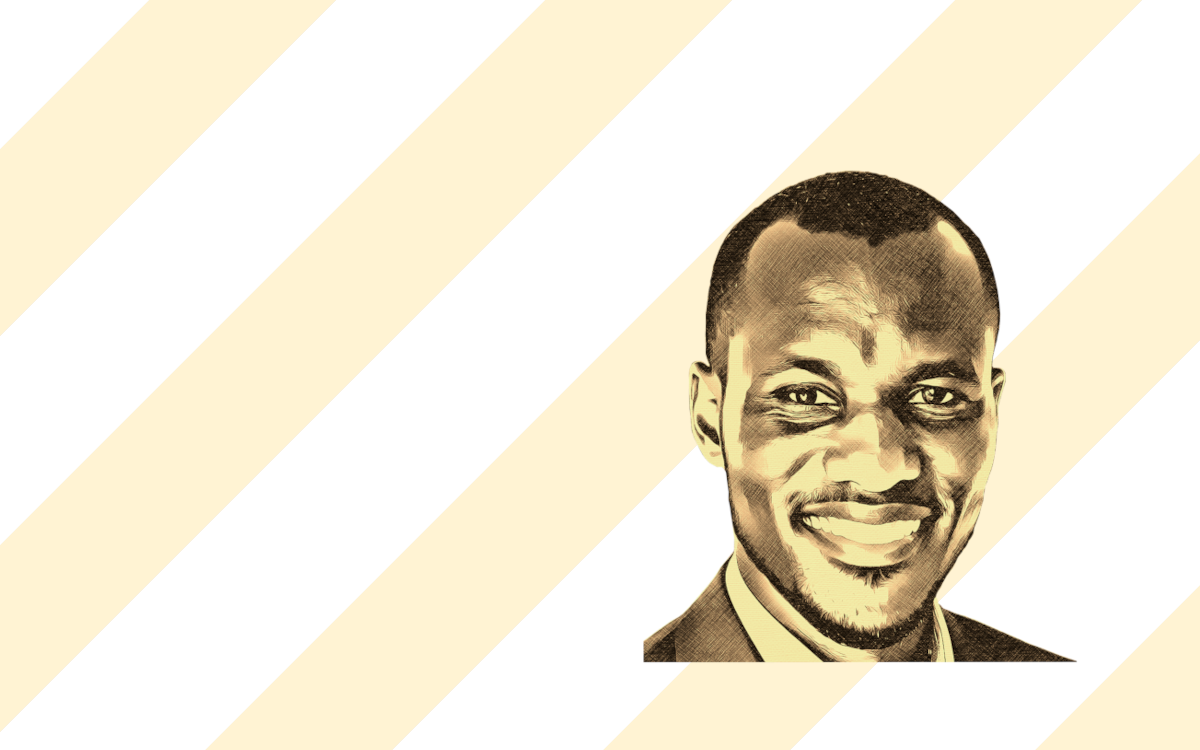
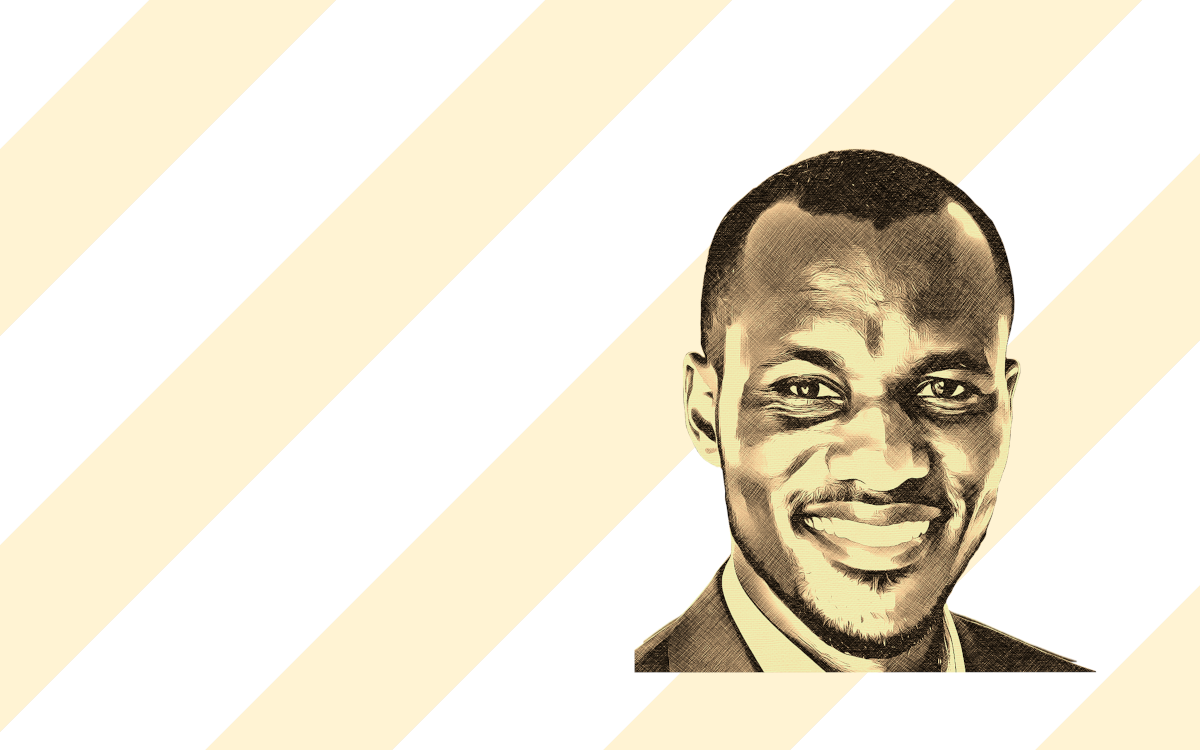
background

Changed region(s): [[0.5242, 0.184, 0.925, 0.92]]

diff --git a/dist/output.css b/dist/output.css
@@ -550,32 +550,12 @@ video {
   position: relative;
 }
 
-.top-0 {
-  top: 0px;
-}
-
-.left-\[50\%\] {
-  left: 50%;
-}
-
-.left-\[-50\%\] {
-  left: -50%;
-}
-
-.left-\[-20\%\] {
-  left: -20%;
-}
-
-.top-\[-20\%\] {
-  top: -20%;
-}
-
-.top-\[-200px\] {
-  top: -200px;
-}
-
 .z-10 {
   z-index: 10;
+}
+
+.z-30 {
+  z-index: 30;
 }
 
 .z-\[100\] {
@@ -584,14 +564,6 @@ video {
 
 .z-\[999\] {
   z-index: 999;
-}
-
-.z-0 {
-  z-index: 0;
-}
-
-.z-30 {
-  z-index: 30;
 }
 
 .m-auto {
@@ -689,6 +661,10 @@ video {
   height: 50px;
 }
 
+.h-\[60\%\] {
+  height: 60%;
+}
+
 .h-fit {
   height: -moz-fit-content;
   height: fit-content;
@@ -702,52 +678,16 @@ video {
   height: 100vh;
 }
 
-.h-60 {
-  height: 15rem;
-}
-
-.h-auto {
-  height: auto;
-}
-
-.h-\[300rem\] {
-  height: 300rem;
-}
-
-.h-\[100rem\] {
-  height: 100rem;
-}
-
-.h-\[50rem\] {
-  height: 50rem;
-}
-
-.h-\[80rem\] {
-  height: 80rem;
-}
-
-.h-\[500px\] {
-  height: 500px;
-}
-
-.h-\[800px\] {
-  height: 800px;
-}
-
-.h-\[50\%\] {
-  height: 50%;
-}
-
-.h-\[60\%\] {
-  height: 60%;
-}
-
 .min-h-\[80\%\] {
   min-height: 80%;
 }
 
 .w-1\/2 {
   width: 50%;
+}
+
+.w-1\/4 {
+  width: 25%;
 }
 
 .w-1\/6 {
@@ -792,42 +732,6 @@ video {
 
 .w-full {
   width: 100%;
-}
-
-.w-1\/4 {
-  width: 25%;
-}
-
-.w-\[300rem\] {
-  width: 300rem;
-}
-
-.w-\[100rem\] {
-  width: 100rem;
-}
-
-.w-\[500rem\] {
-  width: 500rem;
-}
-
-.w-\[50rem\] {
-  width: 50rem;
-}
-
-.w-\[80rem\] {
-  width: 80rem;
-}
-
-.w-\[300px\] {
-  width: 300px;
-}
-
-.w-\[500px\] {
-  width: 500px;
-}
-
-.w-\[800px\] {
-  width: 800px;
 }
 
 .max-w-\[80\%\] {
@@ -895,12 +799,12 @@ video {
   gap: 0.25rem;
 }
 
-.gap-8 {
-  gap: 2rem;
-}
-
 .gap-2 {
   gap: 0.5rem;
+}
+
+.gap-8 {
+  gap: 2rem;
 }
 
 .scroll-smooth {
@@ -909,10 +813,6 @@ video {
 
 .rounded-full {
   border-radius: 9999px;
-}
-
-.rounded-lg {
-  border-radius: 0.5rem;
 }
 
 .border {
@@ -928,32 +828,17 @@ video {
   border-color: rgb(48 40 17 / var(--tw-border-opacity));
 }
 
-.border-red-500 {
-  --tw-border-opacity: 1;
-  border-color: rgb(239 68 68 / var(--tw-border-opacity));
-}
-
 .bg-\[\#302811\] {
   --tw-bg-opacity: 1;
   background-color: rgb(48 40 17 / var(--tw-bg-opacity));
 }
 
-.bg-transparent {
-  background-color: transparent;
-}
-
-.bg-white {
-  --tw-bg-opacity: 1;
-  background-color: rgb(255 255 255 / var(--tw-bg-opacity));
-}
-
-.bg-\[\#FFF3D3\] {
-  --tw-bg-opacity: 1;
-  background-color: rgb(255 243 211 / var(--tw-bg-opacity));
-}
-
 .bg-\[\#302811d2\] {
   background-color: #302811d2;
+}
+
+.bg-transparent {
+  background-color: transparent;
 }
 
 .bg-\[url\(\'\/src\/wall\.png\'\)\] {
@@ -1127,22 +1012,8 @@ video {
   outline-offset: 2px;
 }
 
-.active\:bg-\[\#302811\]:active {
-  --tw-bg-opacity: 1;
-  background-color: rgb(48 40 17 / var(--tw-bg-opacity));
-}
-
-.active\:bg-white:active {
-  --tw-bg-opacity: 1;
-  background-color: rgb(255 255 255 / var(--tw-bg-opacity));
-}
-
 .active\:bg-transparent:active {
   background-color: transparent;
-}
-
-.active\:bg-none:active {
-  background-image: none;
 }
 
 .active\:text-\[\#302811\]:active {
@@ -1243,6 +1114,10 @@ video {
 
   .md\:bg-\[url\(\'\/src\/mbherowall\.png\'\)\] {
     background-image: url('/src/mbherowall.png');
+  }
+
+  .md\:bg-\[url\(\'\/src\/doublemb\.png\'\)\] {
+    background-image: url('/src/doublemb.png');
   }
 
   .md\:pt-10 {

diff --git a/index.html b/index.html
@@ -12,7 +12,7 @@
     <style>
         @media (min-width: 769px) {
             .desktop\:bg-desktop-image {
-                background-image: url('src/neeew.png');
+                background-image: url('src/double.png');
             }
 
             #colapsed-menu {
@@ -61,7 +61,7 @@
     <!-- ==========================================================HERO SECTION======================================================== -->
 
     <section id="hero"
-        class="h-screen pt-[4rem] md:bg-white relative bg-cover bg-center mobile:bg-mobile-image desktop:bg-desktop-image md:h-full md:bg-[url('/src/mbherowall.png')]">
+        class="h-screen pt-[4rem] md:bg-white relative bg-cover bg-center mobile:bg-mobile-image desktop:bg-desktop-image md:h-full md:bg-[url('/src/doublemb.png')]">
         <!-- ====================Mobile Drop-down Menu================================== -->
         <ul id="colapsed-menu"
             class="z-[100]  fixed duration-200 ease-linear -translate-y-[400px] bg-transparent backdrop-blur-lg flex flex-col justify-between items-center w-full h-[300px]"

diff --git a/src/main.js b/src/main.js
@@ -84,6 +84,6 @@ function noGitHub(){
   errorborad.classList.remove("invisible");
   setTimeout(() =>{
     errorborad.classList.add("invisible");
-  }, 5000);
+  }, 3000);
   
 }
